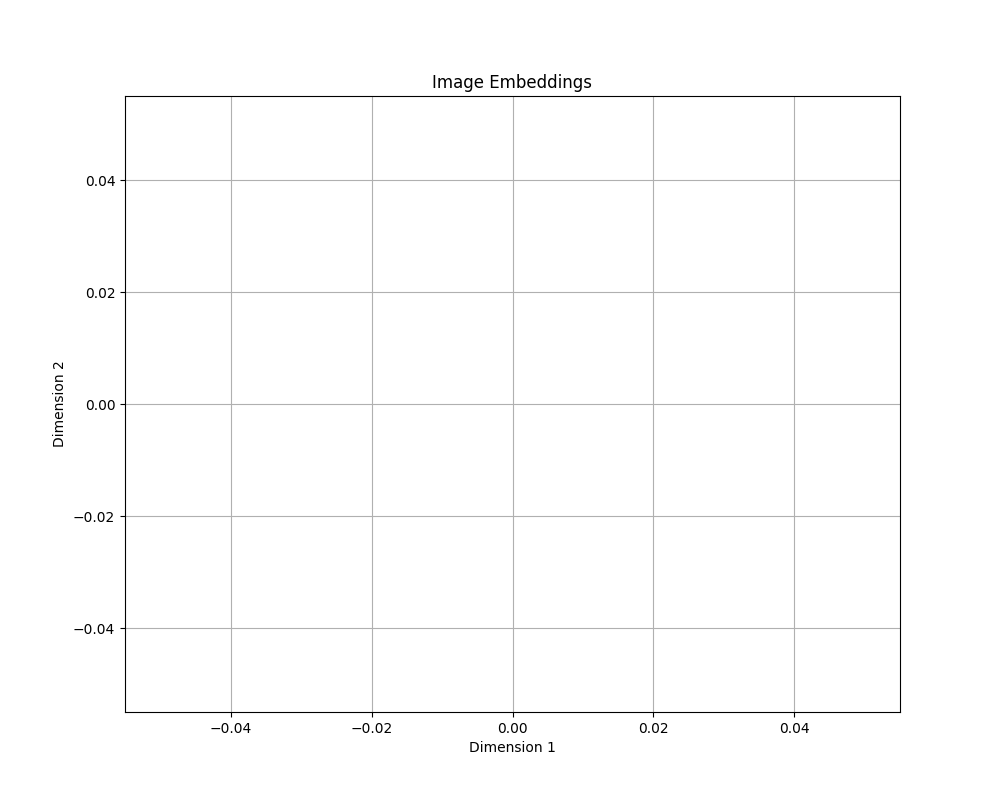
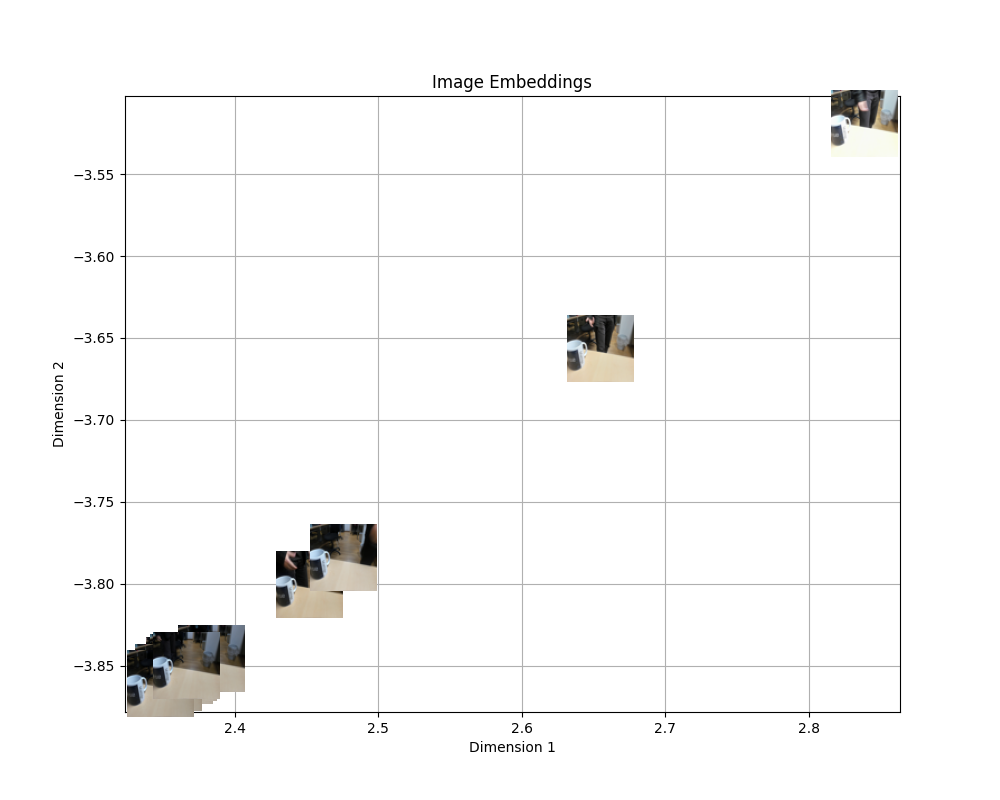
webserver

diff --git a/webserver.py b/webserver.py
@@ -19,17 +19,18 @@ import plotly.offline as pyo
 
 
 # curl -X POST http://127.0.0.1:5000/upload -F "frame=@/home/tenzing/Pictures/flower2.jpg"
-
 # op de client run: sudo python3 run.py resnet50_retrained_grass_flower.rknn 0
 
 
 app = Flask(__name__)
 
 model = None
+CHECKPOINT_PATH = 'models/resnet50_weights_best_acc.tar'  # Path to the PyTorch checkpoint file
+
 embeddings = [] # Store the embeddings of the frames
 class_names = [] # Store the class names of the frames (0 is flower and 1 is grass)
 length_intial_embeddings = 0
-CHECKPOINT_PATH = 'models/resnet50_weights_best_acc.tar'  # Path to the PyTorch checkpoint file
+
 NUM_CLASSES = 1081  # Number of classes for the Pl@ntNet-300K dataset
 UPLOAD_FOLDER = 'frames' # Folder to store the uploaded frames
 toggle_samples = False
@@ -116,7 +117,7 @@ def visualize_embeddings(embeddings, samples_vis=False):
                 plt.scatter(x, y, alpha=0)  # Hide the original points
                     
                 # Load and create thumbnail from images in samples directory
-                img = load_img(os.path.join("samples", samples[idx]), target_size=(80, 80))  # Resize thumbnail
+                img = load_img(os.path.join("samples", samples[idx]), target_size=(60, 60))  # Resize thumbnail
                 imagebox = OffsetImage(img, zoom=0.8)  # Adjust zoom as needed
                 
                 # Create an annotation box with the thumbnail
@@ -129,21 +130,22 @@ def visualize_embeddings(embeddings, samples_vis=False):
     frames = sorted(os.listdir(UPLOAD_FOLDER), key=lambda x: int(x.split('.')[0]))
     print("Images in frames directory: ", frames)
 
-    # Loop through each point and add the corresponding thumbnail
-    for idx, point in enumerate(features[length_intial_embeddings:]):
-            x, y = point[0], point[1]
+    if len(frames) is not 0:
+        # Loop through each point and add the corresponding thumbnail
+        for idx, point in enumerate(features[length_intial_embeddings:]):
+                x, y = point[0], point[1]
+                    
+                plt.scatter(x, y, alpha=0)  # Hide the original points
+                    
+                # Load and create thumbnail for the image
+                img = load_img(os.path.join("frames", frames[idx]), target_size=(60, 60))  # Resize thumbnail
+                imagebox = OffsetImage(img, zoom=0.8)  # Adjust zoom as needed
                 
-            plt.scatter(x, y, alpha=0)  # Hide the original points
+                # Create an annotation box with the thumbnail
+                ab = AnnotationBbox(imagebox, (x, y), frameon=False, pad=0.1)
                 
-            # Load and create thumbnail for the image
-            img = load_img(os.path.join("frames", frames[idx]), target_size=(80, 80))  # Resize thumbnail
-            imagebox = OffsetImage(img, zoom=0.8)  # Adjust zoom as needed
-            
-            # Create an annotation box with the thumbnail
-            ab = AnnotationBbox(imagebox, (x, y), frameon=False, pad=0.1)
-            
-            # Add the annotation box to the plot
-            plt.gca().add_artist(ab)
+                # Add the annotation box to the plot
+                plt.gca().add_artist(ab)
     
     plt.title("Image Embeddings")
     plt.xlabel("Dimension 1")
@@ -190,7 +192,6 @@ def plot():
 
         embedding = encoder(model, frame)
         embeddings.append(embedding) # Pass frame (image) through the PlantNet network and retrieve the embedding
-        
 
     visualize_embeddings(embeddings, samples_vis=toggle_samples) 
     
@@ -205,7 +206,7 @@ def reset():
         print("No embeddings to reset.")
         return redirect(url_for('home'))
     
-    # Remove embeddings from list
+    # Resetting the embeddings and class names
     print(f"Resizing embeddings vector with length {len(embeddings)}, to initial length of {length_intial_embeddings}.")
     embeddings = embeddings[:length_intial_embeddings]
     class_names = []
@@ -291,14 +292,13 @@ def visualize_3d():
 
     return render_template('3d_plot.html', plot_html=plot_html)
 
-
 if __name__ == "__main__":
     
     model = load_model() # Load the PlantNet model and weights
     sample_embeddings = "embeddings.json"
     
-    tsne = TSNE(n_iter=1000, perplexity=30, learning_rate=200, init='pca', random_state=42)
-    tsne_3d = TSNE(n_components=3, perplexity=25, random_state=42) # Initialize tsne 3d
+    tsne = TSNE(n_components=2, perplexity=25, random_state=42)
+    tsne_3d = TSNE(n_components=3, perplexity=25, random_state=42)
 
     # Load sample datapoints voor tsne
     with open(sample_embeddings, 'r') as json_file:
@@ -309,13 +309,9 @@ if __name__ == "__main__":
 
     length_intial_embeddings = len(embeddings)
     print(f"Length of initial embedding vector with samples: {length_intial_embeddings}")
+    
+    clear_images_in_directory(UPLOAD_FOLDER) # Remove captured frames from the directory
 
-    # size = sys.getsizeof(embeddings)
-    # print("Total size list in bytes:", size)
-
-    # Remove captured frames
-    clear_images_in_directory(UPLOAD_FOLDER)
-
-    visualize_embeddings(embeddings, samples_vis=False) 
+    visualize_embeddings(embeddings, samples_vis=False) # Visualize the embeddings first
     
     app.run(host="0.0.0.0", debug=True)
